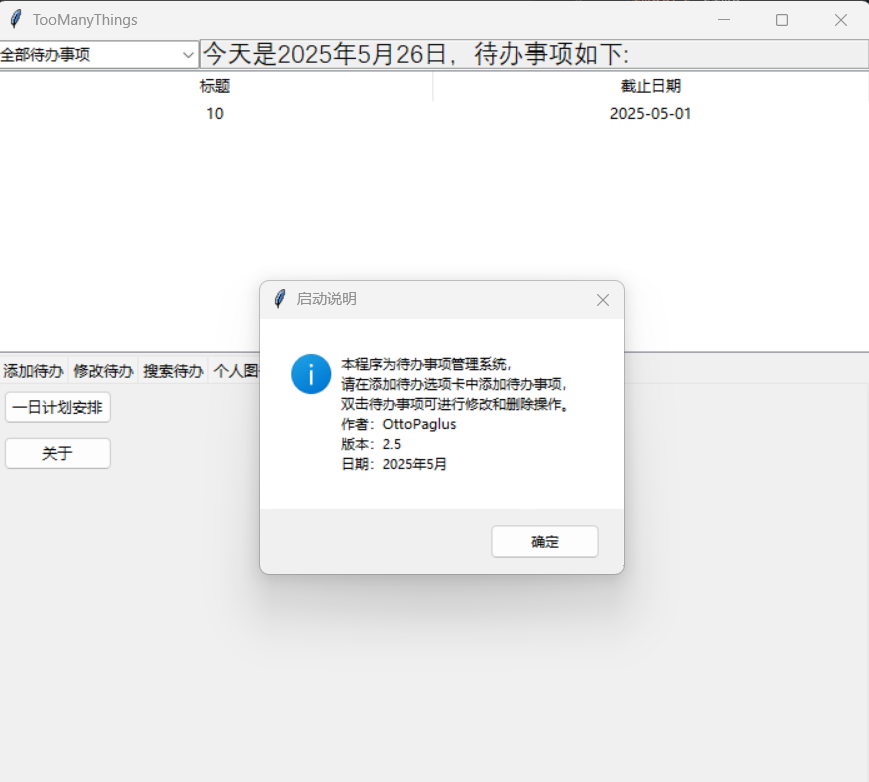
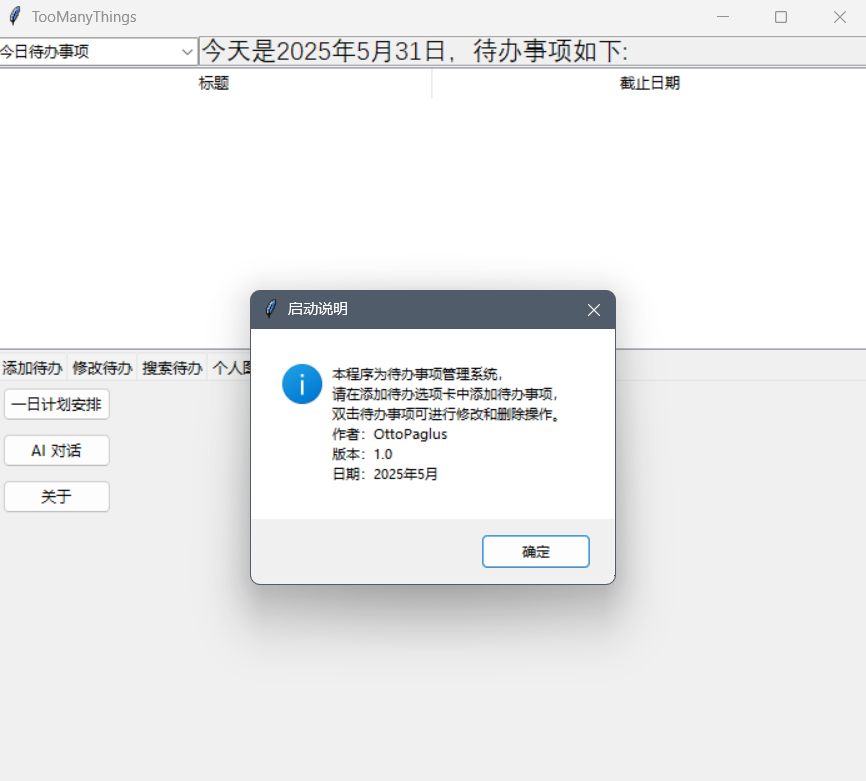
添加AI集成体API接口，监听窗口变量转入constant.py(http://localhost:11434) 版本号v1.1-Dev2025.05-Alpha-2

Changed region(s): [[0.0, 0.3688, 1.0, 0.799], [0.0, 0.0, 1.0, 0.1536]]

diff --git a/SiliconFlowClient.py b/SiliconFlowClient.py
@@ -31,7 +31,7 @@ def generate_system_prompt_from_sqlite(db_path, table_name="Thingstable", sample
 
 class SiliconFlowClient:
     def __init__(self, api_key=None, model="Qwen/Qwen3-8B", system_prompt=None):
-        self.api_key = api_key or "sk-usaxnlhkworwtpgftpvkgedgwpmcujbzvltufnvbqczxbvxw"
+        self.api_key = api_key or ""
         self.model = model
         self.api_url = "https://api.siliconflow.cn/v1/chat/completions"
         self.messages = []

diff --git a/UImain.py b/UImain.py
@@ -258,7 +258,7 @@ def siliconflow_chat_open():
     entry.pack(fill="x", padx=10, pady=5)
 
     client = SiliconFlowClient(
-        api_key="sk-usaxnlhkworwtpgftpvkgedgwpmcujbzvltufnvbqczxbvxw",
+        api_key="",
         system_prompt=prompt
     )
 

diff --git a/Readme.md b/Readme.md
@@ -1,113 +1,132 @@
 当前版本：v1.0
 
-TooManyThings 是基于Python语言及其Tkinter 等模块开发的一款个人待办事项平台。
-本平台包括两个大模块：待办模块与书籍管理模块。
-待办模块提供待办添加，待办四项分类法，待办查询，待办编辑和待办删除功能。
-书籍管理模块提供单本书录入、批量录入、EDUB 录入和书籍数据编辑四大功能。 
-本软件数据库采用MySQL语言，无联网同步功能，属于本地系统。
+开发版本：v1.0_Dev2025.05_Alpha_1
+
+TooManyThings是基于Python语言及其Tkinter等模块开发的一款个人待办事项平台
+
+本平台包括两个大模块：待办模块与书籍管理模块
+
+待办模块提供待办添加，待办四项分类法，待办查询，待办编辑和待办删除功能
+
+书籍管理模块提供单本书录入、批量录入、EPUB 录入和书籍数据编辑四大功能
+
+本软件数据库采用MySQL语言，暂无跨平台同步功能，属于本地系统
+
 # 一、UI说明
-当你启动UImain.py时，会显示如下的主页面（见图一）
+
+当你启动UImain.py时，会显示如下的主页面
 
 ![](imgs/1.png)
 
-（图一）
+主页面左上角选项框和上方“标题-截止日期”显示框联动，可以选择想要展示的内容，包括：
 
-主页面左上角选项框和上方“标题-截止日期”显示框联动，可以选择想要展示的内容，包括：（见图二）
 “今日待办事项”
+
 “全部待办事项”
+
 “重要并且紧急”
+
 “不重要但紧急”
+
 “重要但不紧急”
+
 “不重要不紧急”
+
 “已经完成事项”
-七个选择项。不同选择项所对应展示的内容不同。
+
+七个选择项。不同选择项所对应展示的内容不同
+
 （此处还有一个"查找结果展示”，是适配搜索功能使用的，直接选择打开会报错）
 
-下方添加待办处可以输入标题，内容，截止日期，并选择待办等级。**注意：截止日期格式必须为YYYY-MM-DD格式，否则可能会出现显示错误。**
+下方添加待办处可以输入标题，内容，截止日期，并选择待办等级。
+
+**注意：截止日期格式必须为YYYY-MM-DD格式，否则可能会出现显示错误**
 
 ![](imgs/2.1.png)
 
-（图二）
-
-全部输入完成后点击保存，会将内容输入进显示框内，并清空“添加待办”中的内容。（见图三、四）
+全部输入完成后点击保存，会将内容输入进显示框内，并清空“添加待办”中的内容
 
 ![](imgs/3.png)
 
-（图三）
 
 ![](imgs/2.png)
 
-（图四）
-
-当双击显示框内的内容时，会跳转到“修改待办页面”（如图五）。
+当双击显示框内的内容时，会跳转到“修改待办页面”
 
 ![](imgs/5.png)
 
-（图五）
-
-在此处可以对待办的标题、内容、截止日期、待办等级、完成情况进行修改。修改完成后点击“保存修改”就完成了修改（见图六），点击删除任务会从数据库中删除该任务（见图七、图八）。操作完成后会刷新显示框。
+在此处可以对待办的标题、内容、截止日期、待办等级、完成情况进行修改。修改完成后点击“保存修改”就完成了修改
 
 ![](imgs/5.1.png)
 
-（图六）
+点击删除任务会从数据库中删除该任务。操作完成后会刷新显示框
 
 ![](imgs/5.2.png)
 
-（图七）
 
 ![](imgs/5.3.png)
 
-（图八）
-
-在"搜索待办"中，可以通过输入分支内容来查找待办事项，结果会显示在上方（见图九）
+在"搜索待办"中，可以通过输入分支内容来查找待办事项，结果会显示在上方
 
 ![](imgs/4.png)
 
-（图九）
-
-在"个人图书馆管理"中，可以对书籍数据进行处理。（见图十）
+在"个人图书馆管理"中，可以对书籍数据进行处理
 
 ![](imgs/6.0.png)
 
-（图十）
-
-点击"书目录入"，在打开的页面中可以输入单本书的信息，其中标“\*”的选项是必填项。（见图十一）
+点击"书目录入"，在打开的页面中可以输入单本书的信息，其中标“\*”的选项是必填项
 
 ![](imgs/6.png)
 
-（图十一）
-
-点击“按表格批量导入书目”，在打开的页面中可以上传 xlsx 文件进行批量录入（注意，xlsx 文件样例为根目录下“ex.xlsx”）（见图十二）
+点击“按表格批量导入书目”，在打开的页面中可以上传 xlsx 文件进行批量录入（注意，xlsx 文件样例为根目录下“ex.xlsx”）
 
 ![](imgs/7.png)
 
-（图十二）
-
-点击“电子书录入”，此处可以录入一本 EPUB 格式电子书，并且会自动提取作者、出版社、书名等信息输入数据库。（见图十三）
+点击“电子书录入”，此处可以录入一本 EPUB 格式电子书，并且会自动提取作者、出版社、书名等信息输入数据库
 
 ![](imgs/8.png)
 
-（图十三）
-
-点击"书目搜索/编辑/删除"，此处可以搜索需要修改的书籍并对其进行修改，默认会显示全部书籍。（见图十四）
+点击"书目搜索/编辑/删除"，此处可以搜索需要修改的书籍并对其进行修改，默认会显示全部书籍
 
 ![](imgs/9.png)
 
-（图十四）
+在“奇奇怪怪的试验田”中，有"一日计划安排"“AI对话”和“关于”几个选项
 
-在“奇奇怪怪的试验田”中，有"一日计划安排"和“关于”两个选项。“一日计划安排”目前还在开发，情况如图十五所示。“关于”展示了本平台的一些信息。（见图十六）
+![12.png](imgs/12.png)
+
+“一日计划安排”目前还在开发，情况如下图所示。
 
 ![](imgs/10.png)
 
-（图十五）
+同时添加了对接Ollama的大模型接口功能，此处对接了运行于本地的deepseek-r1 7b模型，端口号"http://localhost:11434"（写于constant.py中）
+
+![13.png](imgs/13.png)
+
+“关于”展示了本平台的一些基本信息。
 
 ![](imgs/11.png)
 
-（图十六）
+# 二、各个Python类及其说明
 
-# 二、后续改进
+1. book_editor.py：用于对书籍数据进行处理
+2. book_epub_reader.py：用于读取EPUB数据
+3. book_excel_import.py：用于读取表格形式的excel数据
+4. book_single_entry.py：用于单本书的数据输入
+5. constant.py：存储全局变量和版本信息
+6. file_helper.py：文件操作集成体
+7. Ollama_chat.py：Ollama本地大语言模型调用
+8. SiliconFlowClient.py：硅基流动API调用（开发中）
+9. todo_create.py：创建待办
+10. todo_edit.py：编辑待办
+11. todo_query.py：待办显示
+12. todo_search.py：待办查询
+13. UImain.py：UI主页面
+
+# 三、后续改进
+
 1. 完善时间表模块的开发
 2. 解决“搜索结果展示”的报错问题
 3. 支持更多书籍格式
 4. 完成 ISBN 和两种分类方式的自动获取与分类赋值
+5. 完成硅基流动API调用，整合AI大语言模型
 远期计划：更改 UI 框架
